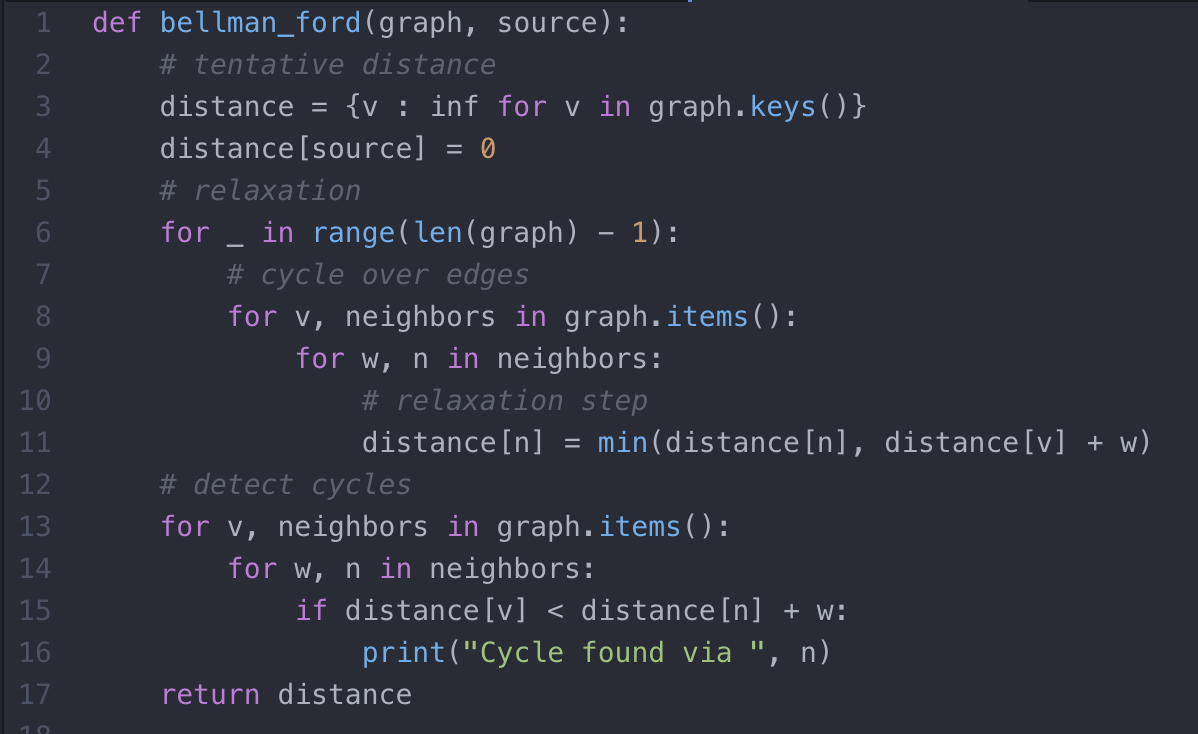
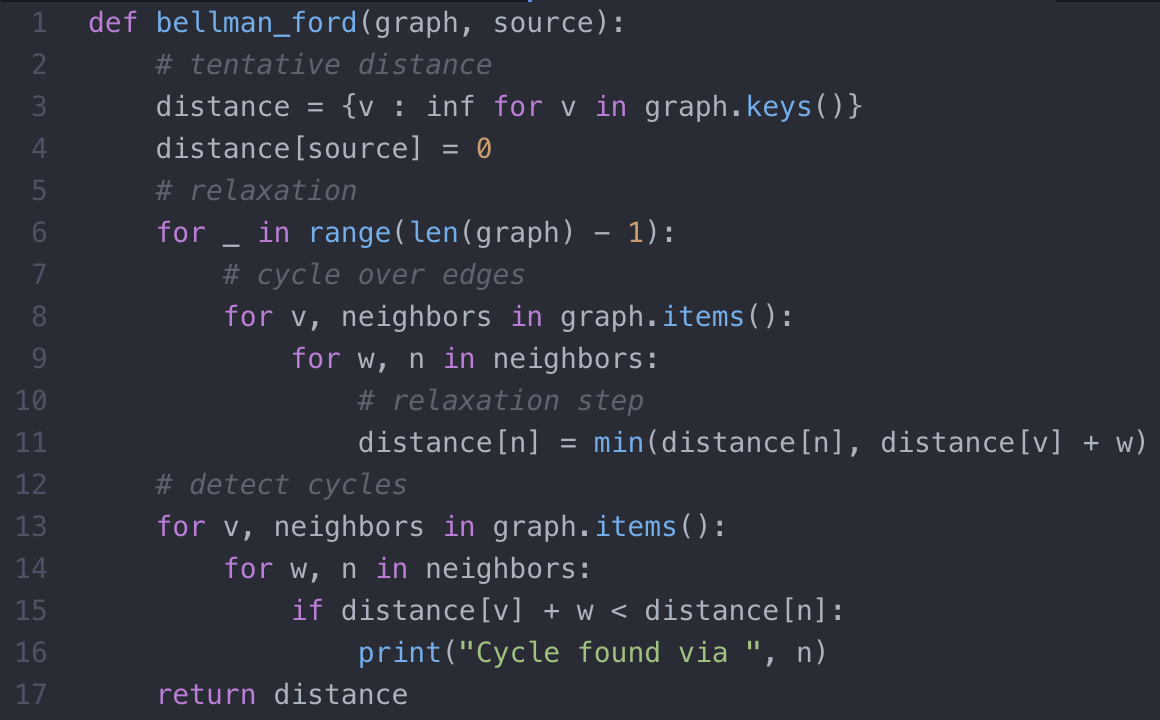
:ambulance: update BF + example

diff --git a/Chapters/07.ShortestPathProblems/shortestpaths.py b/Chapters/07.ShortestPathProblems/shortestpaths.py
@@ -150,7 +150,7 @@ def bellman_ford(graph, source):
     # detect cycles
     for v, neighbors in graph.items():
         for w, n in neighbors:
-            if distance[v] < distance[n] + w:
+            if distance[v] + w < distance[n]:
                 print("Cycle found via ", n)
     return distance
 
@@ -205,3 +205,13 @@ if __name__ == '__main__':
                 graph[node1].add((dist, node2))
 
     print(a_star(graph, nodes[1], nodes[10], euclidean_distance))
+
+
+    graph_neg_cycle = {
+        'A' : [(1, 'C'), (3, 'E')],
+        'B' : [(-1, 'D')],
+        'C' : [(-2, 'D'), (2, 'B')],
+        'D' : [(0.5, 'A'), (-1, 'E'), (2, 'F')],
+        'E' : [],
+        'F' : [(1, 'E'), (3, 'B')]
+    }
